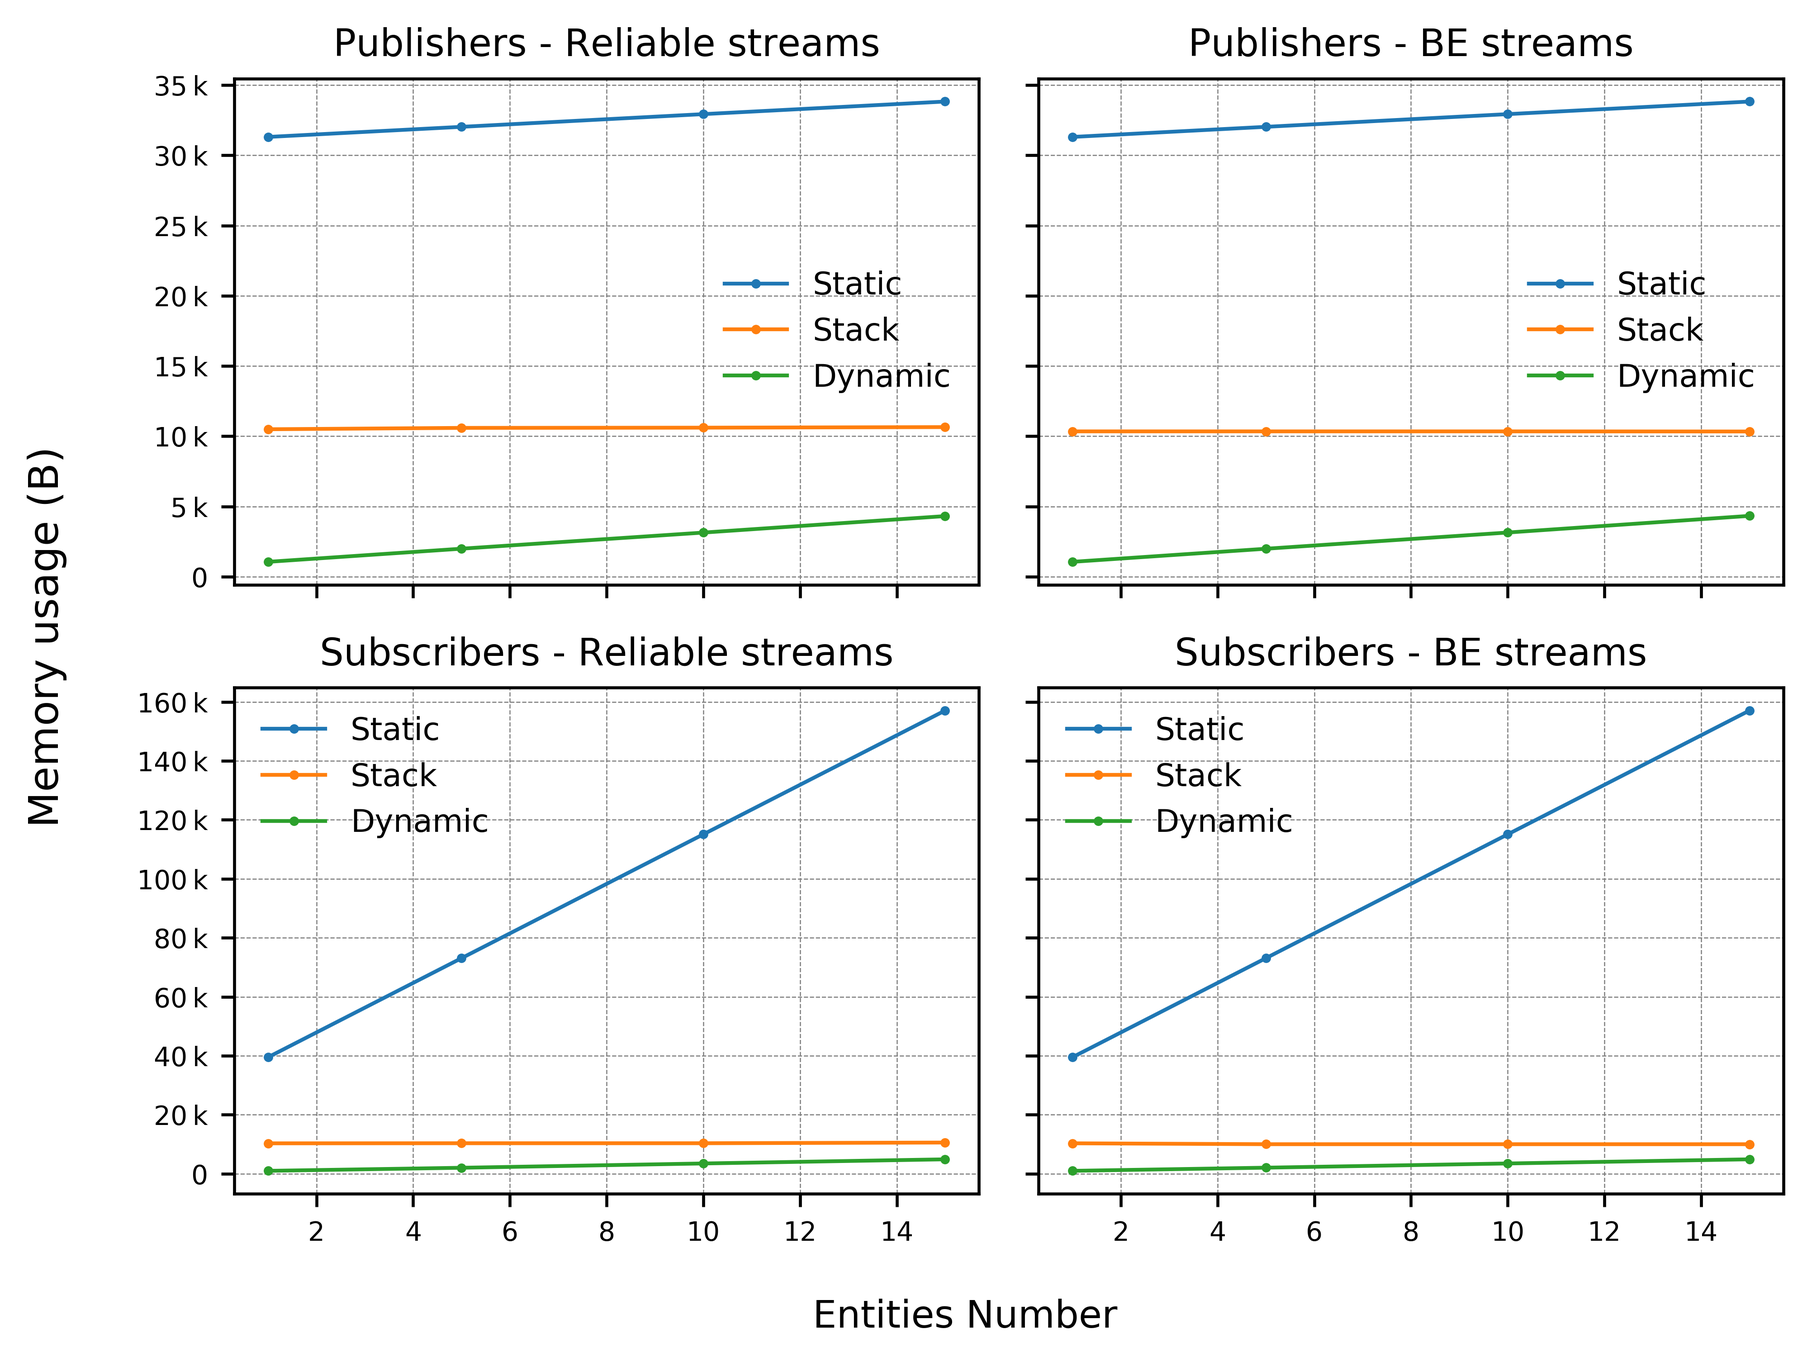
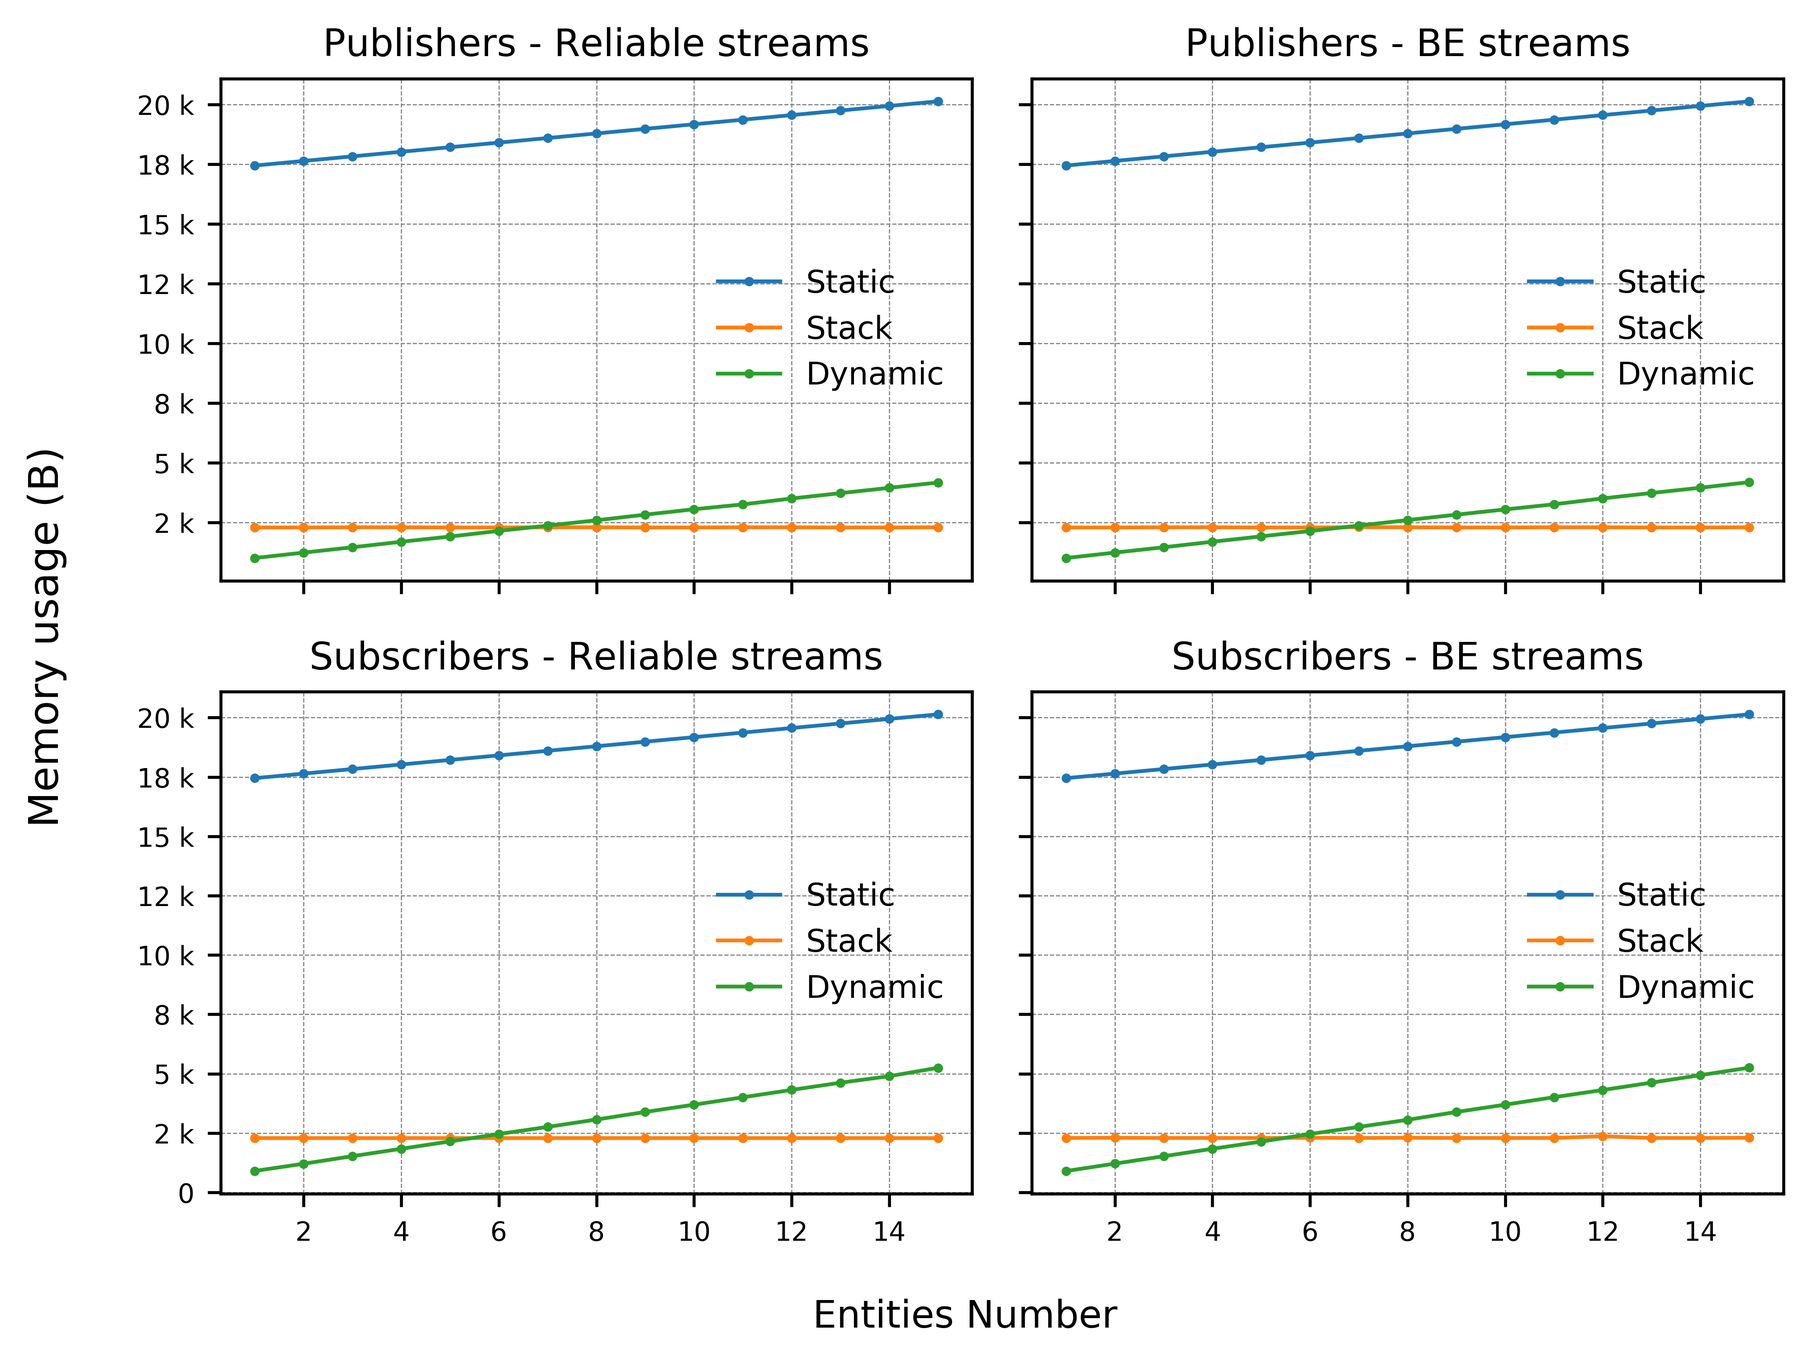
Reworked memory profiling section. (#306)

diff --git a/_docs/concepts/benchmarking/memo_prof/index.md b/_docs/concepts/benchmarking/memo_prof/index.md
@@ -45,13 +45,12 @@ Communication streams regulate how messages flow between the Clients and the Age
 
 ### Memory management of the RMW
 
-The `rmw-microxrcedds` layer uses static memory for allocating the resources associated with the ROS client support libraries, such as nodes, publishers, subscribers etc. This static memory is managed by independent memory pools for each kind of entity, whose size can be set at build time through CMake flags which allow to tune several parameters, for instance the maximum number of entities, which ultimately control how much memory a micro-ROS application can consume.
-
-Another important memory resource managed by the `rmw-microxrcedds` library is the message history (also referred to as RMW_history in the rest of the text). `rmw-microxrcedds` uses a static-memory message queue where to keep the subscription messages before the user reads them, that functions as a buffer ring while it is being populated with the incoming messages and depleted by means of users’ callbacks coming from the higher layers.
+The `rmw-microxrcedds` layer uses static memory for allocating the resources associated with the ROS client support libraries, such as nodes, publishers, subscribers etc. This memory is managed by static memory pools that are shared among all the entities of a given application. The number of pools is fixed by the RMW message history (also referred to as RMW_history in the rest of the text), a parameter which is chosen by the user as a CMake flag.
+These RMW pools act as message queues where to keep the subscription messages before the user reads them. The size of each pool is given by the MTU &#215; XRCE_history.
 
 ### Additional considerations
 
-It should be clear by now that the two history buffers involved in the Client-Agent communication are different in nature: the XRCE-DDS history is used to store chunks of fragmented messages if Reliable communication is implemented. Thanks to this, in Reliable mode one can send or receive up to MTU &#215; XRCE_history minus the memory reserved for headers, whereas Best-Effort communication streams can only exchange messages of size smaller or equal to the MTU.  The history of the RMW, in turn, controls the reception of data in the case of subscription and services. In this case, a buffer ring is generated in the RMW to store and cushion the data received from the XRCE-DDS library while handling the `take` calls received from the user’s interface to fetch these data and send them through the upper layers all the way up to the user’s application.
+It should be clear by now that the two history buffers involved in the Client-Agent communication are different in nature: the XRCE-DDS history is used to store chunks of fragmented messages if Reliable communication is implemented. Thanks to this, in Reliable mode one can send or receive up to MTU &#215; XRCE_history minus the memory reserved for headers, whereas Best-Effort communication streams can only exchange messages of size smaller or equal to the MTU.  The history of the RMW, in turn, controls the reception of data in the case of subscription and services. In this case, a buffer ring is generated in the RMW to store and cushion the data received from the XRCE-DDS library while handling the `take` calls received from the user’s interface to fetch the data and send them through the higher layers all the way up to the user’s application.
 
 Notice that this reflects the different behaviours of the XRCE-DDS library and of the RMW under subscription. While the XRCE-DDS library functions with callbacks, by warning the user whenever a new message comes in, the RMW functions by polling: this library listens to the topics the user has subscribed to and stores them until they are explicitly requested.
 
@@ -117,7 +116,7 @@ In the fifth set of measurements we measure the footprint of applications of req
 
 In this section, we detail the methodology employed for the memory profiling of the experimental configurations described above, and for each of them we present the results obtained.
 
-The measurements are conducted on a micro-ROS Client application with a varying number of entities: either publishers/subscribers (1, 5, 10, 15) or client/server (1, 2, 5, 10).
+The measurements are conducted on a micro-ROS Client application with a varying number of entities: either publishers/subscribers (from 1 to 15) or client/server (from 1 to 10).
 
 All the tested apps run on top of FreeRTOS and inside of an ESP32 board. The board is connected by either UDP or serial transport to a micro-ROS Agent running on a Linux machine. As explained above, the choice of FreeRTOS has been by virtue of its memory management functionalities, which easily allow to compute the memory used by applications.
 
@@ -127,11 +126,11 @@ In order to provide an assessment as much realistic as possible, the following p
 
 *Total memory as a function of entities number and message size*
 
-In this section, we report the total memory used by either publisher or subscriber applications in both Best-Effort and Reliable modes, using UDP transport, an RMW history of 4 slots, an MTU of 512 B and an XRCE-DDS history of 4 slots. The total memory consumption is reported as a function of the entity number and message size.
+In this section, we report the total memory used by either publisher or subscriber applications in both Best-Effort and Reliable modes, using UDP transport, an RMW history of 8 shared slots, an MTU of 512 B and an XRCE-DDS history of 4 slots. The total memory consumption is reported as a function of the entity number and message size.
 
 The number of publishers/subscribers has been varied, which is equivalent to changing the number of topics, since in our design of the set-up we associate each publisher/subscriber with just one topic.
 
-In principle, in the Reliable case one can occupy the generated buffers with message sizes up to MTU &#215; XRCE_history, whereas in the Best-Effort case it can be filled with messages with size up to MTU, which correspond respectively to to 512 B &#215; 4 = 2048 B and 512 B with our default chosen values. This is due to the absence of fragmentation in Best-Effort communication streams, while, thanks to fragmentation, an entity functioning in Reliable mode can send/receive a message opportunely chunked in a number of pieces equal to the XRCE_history, each of the size of the MTU. However, from table 1 one can see the message size only ranges from 0 and 1366 B in the case of Reliable entities, and between 0 and 490 B for entities in Best-Effort mode. This is due to the fact that in both cases some memory is consumed by headers and, most importantly, in the Reliable case some is consumed by confirmation messages such as heartbeats and acknacks.
+In principle, in the Reliable case one can occupy the generated buffers with message sizes up to MTU &#215; XRCE_history, whereas in the Best-Effort case it can be filled with messages with size up to MTU, which correspond respectively to to 512 B &#215; 4 = 2048 B and 512 B with our default chosen values. This is due to the absence of fragmentation in Best-Effort communication streams, while, thanks to fragmentation, an entity communicating in Reliable mode can send/receive a message opportunely chunked in a number of pieces equal to the XRCE_history, each of the size of the MTU. However, from table 1 one can see the message size only ranges from 0 and 1366 B in the case of Reliable entities, and between 0 and 490 B for entities in Best-Effort mode. This is due to the fact that in both cases some memory is consumed by headers and, most importantly, in the Reliable case, some is consumed by confirmation messages such as heartbeats and acknacks.
 
 <img alt="Total memory" src="overall.png" class="center">
 
@@ -139,18 +138,18 @@ In principle, in the Reliable case one can occupy the generated buffers with mes
   Fig 3: Total memory usage (in Bytes) of micro-ROS publisher and subscription applications in both Best-Effort and Reliable modes with UDP transport, default parameters and as a function of the entities number (x axis) and of the message size (legend).
 </p>
 
-
 From these plots, we can draw some conclusions and observe trends.
 
 First of all it appears clear that the total memory consumption varies with the number of entities but not with the message size. The reason for this is that all message sizes explored fit into the static buffers pre-allocated by the program at compile-time. We therefore expect that the memory consumption would only vary with the message size when the total space occupied by the topic plus the confirmation messages (in the reliable case) and the overhead exceeds the buffer size. In the case of increasing the number of entities, instead, the overall memory grows (as we’ll see below, this is driven by an increase in both the static and the dynamic memories, while the stack is not affected).
 
-By performing a simple calculation, we can see that the memory occupied by one publisher under the above experimental conditions is of ~ 400 B, while that occupied by one subscriber is ~ 8700 B. This huge difference is rooted in that subscriptions make full use of both the XRCE-DDS and the RMW histories, which respectively control the data storage and the data passing between the lower layers and the user interface by means of buffer rings where data are stored and retrieved during the subscription process. This makes subscriptions consume an additional memory of size MTU * XRCE_history * RMW_history (in this case, 512 * 4 * 4) with respect to the memory used by a publisher app, which is merely associated with the entity creation.
+By performing a simple calculation, we can see that the memory occupied by one publisher under the above experimental conditions is of ~ 400 B, while that occupied by one subscriber is ~ 500 B.
+The fact that there is virtually no substantial difference between the memory usage of these two entities, notwithstanding the fact that subscribers have a RMW_history associated, is ascribable to the fact that the memory pools of the RMW are shared among all the entities participating in a given application, and therefore it doesn't mark a difference between subscribers (in need to store messages before they are fetched from the higher layers) and publishers.
 
 Finally, we see that there is no substantial difference between Reliable and Best-Effort modes, exception made for the upper threshold of the message size that can be sent in these two modes, as explained at the beginning of this section.
 
 *Memory breakdown*
 
-To get a better insight into the type of memory consumed by these applications, below we provide the same data but broken down into its constituent memory chunks. We do so for just one message size (1 B), since, as we have seen, this number doesn’t affect the total memory consumed (nor its constituents).
+To get a better insight on the type of memory consumed by these applications, below we provide the same data but broken down into its constituent memory chunks. We do so for just one message size (1 B), since, as we have seen, this number doesn’t affect the total memory consumed (nor its constituents).
 
 <img alt="Memory breakdown" src="3mems.png" class="center">
 
@@ -160,13 +159,9 @@ To get a better insight into the type of memory consumed by these applications, 
 
 From these results we see that both the static and the dynamic memories change with the entity number, while the stack stays constant.
 
-*Serial vs UDP transports*
-
-In this scenario we have performed a reduced set of measurements, for a configuration very similar to the one reported in the first scenario, but with a different transport protocol, that is, serial in spite of UDP. We have tested an application with a single publisher and another with a single subscriber communicating on Reliable streams, with both the RMW and the XRCE-DDS histories set to 4 units, and the MTU set to its default value of 512 B.  Because of this, the relevant figures produced as outputs to these measurements can be summarized by simple numbers and a proper plot is not provided. The results obtained are: 45590 B of total memory for one publication, and 52643 B for one subscription. To be able to perform a quick comparison between serial and UDP transports, we recall that in the UDP case tested at the beginning of this section, we had obtained 42869 B for one publisher app and 50843 subscriber app. Given the results closeness, we deduce that the transport does not influence the results (or, at most, it does so to a very small, pointing towards a slightly less consumption in the case of serial transport).
-
 *Role of the RMW history*
 
-In this scenario, we have measured the static memory consumed as a function of the RMW history, when this ranges from 1 to 20 units, for a single subscriber application to a message of fixed size (again, as seen above this size doesn’t affect the memory consumption as long as it’s smaller than the pre-allocated buffer size), with UDP transport and an XRCE-DDS history of 4, using Reliable communication. The results are summarized in the plot below:
+In this scenario, we have measured the static memory consumed as a function of the RMW history, when this ranges from 1 to 20 units, for a single subscriber application and with a message of fixed size (again, as seen above this size doesn’t affect the memory consumption as long as it’s smaller than the pre-allocated buffer size), with UDP transport and an XRCE-DDS history of 4, using Reliable communication. The results are summarized in the plot below:
 
 <img alt="RMW history" src="rmw_history.png" class="center" width="60%">
 
@@ -174,11 +169,11 @@ In this scenario, we have measured the static memory consumed as a function of t
    Fig 5: Static memory usage (in Bytes) of a micro-ROS subscription application in reliable mode with UDP transport, default parameters and fixed message size as a function of the RMW history.
 </p>
 
-From this plot, we see that the total static memory used changes by MTU * RMW_history (which is equal to 512 * 4 for the parameters employed) for each unit of RMW memory that we add to the application.
+From this plot, we see that the total static memory used changes by MTU &#215; RMW_history (which is equal to 512 &#215; 4 for the parameters employed) for each unit of RMW memory that we add to the application.
 
 #### Client-Server apps
 
-We now pass to investigate our last case-scenario, where in spite of pub/sub apps, we consider a different kind of ROS object, that of services, in which the communication between entities follow a request/reply pattern. See below the results for the memory consumed, for a number of servers and clients ranging between 1, 2, 5 and 10. Notice that we report both the behaviour and values of the individual consituents (static, stack, and dynamic) and of the total memory.
+We now pass to investigate our last case-scenario, where in spite of pub/sub apps, we consider a different kind of ROS object, that of services, in which the communication between entities follow a request/reply pattern. See below the results for the memory consumed, for a number of servers and clients ranging from 1 to 10. Notice that we report both the behaviour and values of the individual consituents (static, stack, and dynamic) and of the total memory.
 
 <img alt="Services" src="servcli.png" class="center">
 
@@ -186,19 +181,17 @@ We now pass to investigate our last case-scenario, where in spite of pub/sub app
    Fig 6: Total memory usage (in Bytes) of micro-ROS service and clients applications as a function of the number of servers and clients.
 </p>
 
-As already done in the case of publishers and subscribers, we can calculate the total memory consumed by a single entity. From this calculation it results that the memory occupied by one server or one client is on the order of ~ 8800 B. From this figure, we see that the memory occupied by a server and that occupied by a client is virtually identical, and it is on the same order of magnitude as that occupied by a subscriber. This is understandable if one thinks that in the case of these applications, entities always need to ‘subscribe’ to either a request, in the case of a server, and to a reply, in the case of a client. In both cases, messages need to be stored in the memory slots allocated in both the XRCE-DDS and RMW layers.
+As already done in the case of publishers and subscribers, we can calculate the total memory consumed by a single entity. From this calculation it results that the memory occupied by one server or one client is on the order of ~ 300 B. From this figure, we see that the memory occupied by a server and that occupied by a client is virtually identical, and it is on the same order of magnitude as that occupied by a publisher or subscriber application.
 
 ### Conclusions
 
 To sum up, we have seen that:
 
-* Memory consumption doesn’t vary with message size as long as the sum of the latter and overheads can be accommodated by the static buffer pre-allocated at compile-time.
+* Memory consumption doesn’t vary with message size as long as the sum of the latter plus the overheads can be accommodated by the static buffer pre-allocated at compile-time.
 * Static and Dynamic memories vary with the entity number, while the stack remains constant.
-* A single publisher app with default configuration parameters and with both transport protocols explored (UDP and serial) consumes ~ 400 B of total memory, which corresponds to the memory needed for creating the entity.
-* A single subscriber app with default configuration parameters and with both transport protocols explored (UDP and serial) consumes ~ 8700 B of total memory, which represents the sum of the memory needed for creating the entity and the static buffers allocated to store and handle the messages in both the XRCE-DDS and RMW. It is important to note that this memory size is obtained when using the default configuration, and it can be heavily reduced to fit use cases with a lower memory profile.
-* A single client/server app with default configuration parameters and with UDP transport consumes ~ 8800 B of total memory. This reflects the fact that in a request/response pattern messages need to be stored and handled as in the subscription case.
-* In the case of a single subscription, the total static memory used changes by MTU * XRCE_history for each unit of RMW history that is added to the application.
-* The handling of the RMW history for subscriptions and services, which are the most critical cases, should be revisited in order to reduce the growth of the static consumption. The current implementation reserves RMW_history * XRCE_history * MTU Bytes for each subscriber/client/service. Our most recent considerations are directed towards reducing this number by using a shared RMW history pool for every entity.
+* A single publisher/subscriber app with default configuration parameters and with both transport protocols explored (UDP and serial) consumes ~ 400-500 B of total memory.
+* A single client/server app with default configuration parameters and with UDP transport consumes ~ 300 B of total memory, on the same order of magnitude of pub/sub applications.
+* In the case of a single subscription, the total static memory used changes by MTU &#215; XRCE_history for each unit of RMW history that is added to the application.
 
 <style type="text/css">
 
